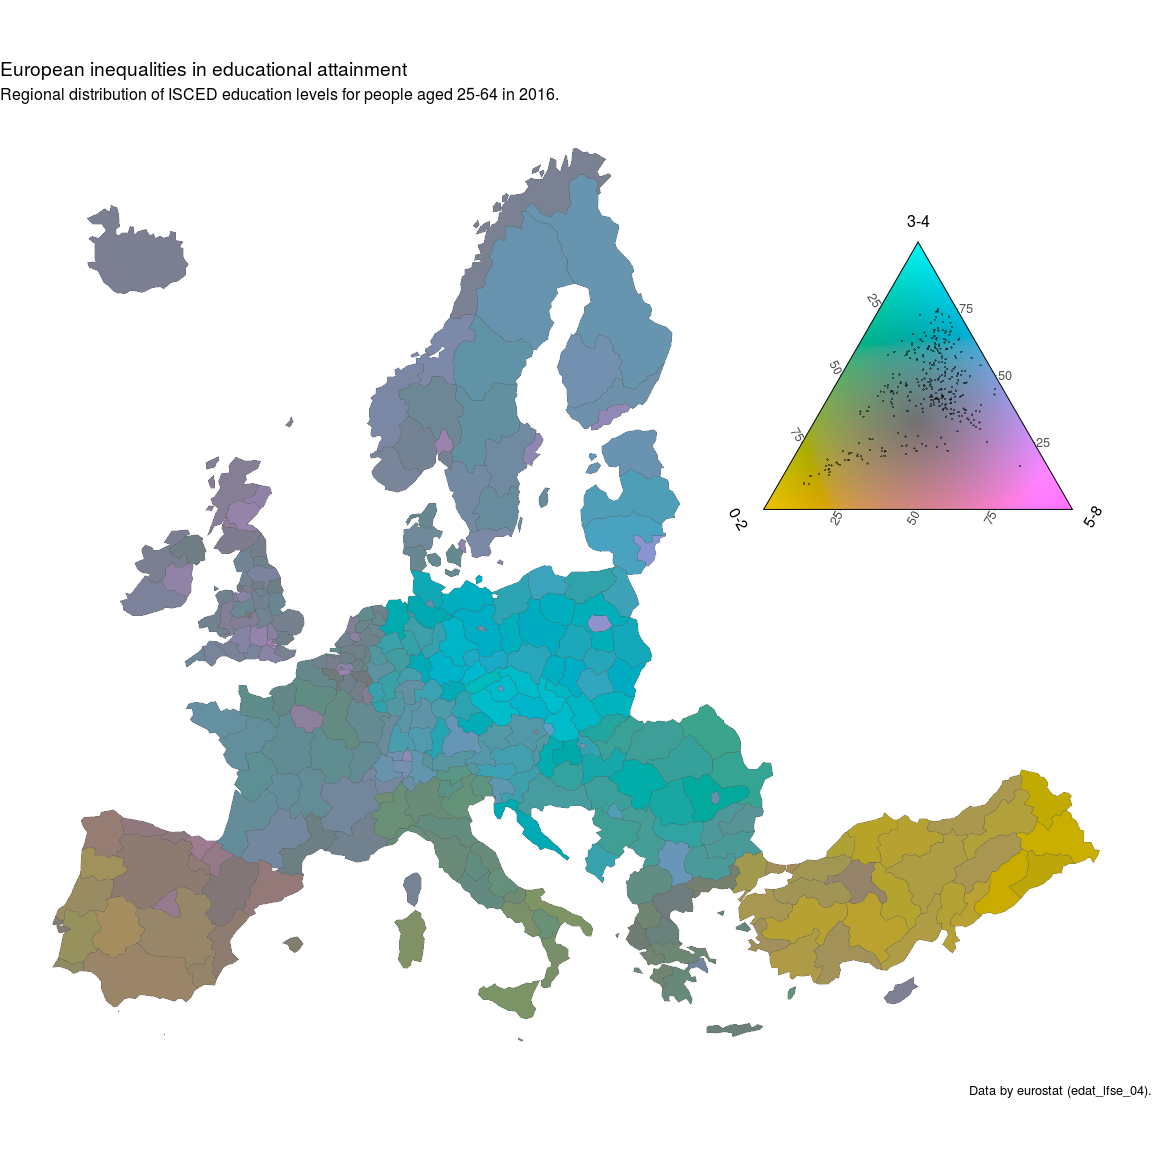
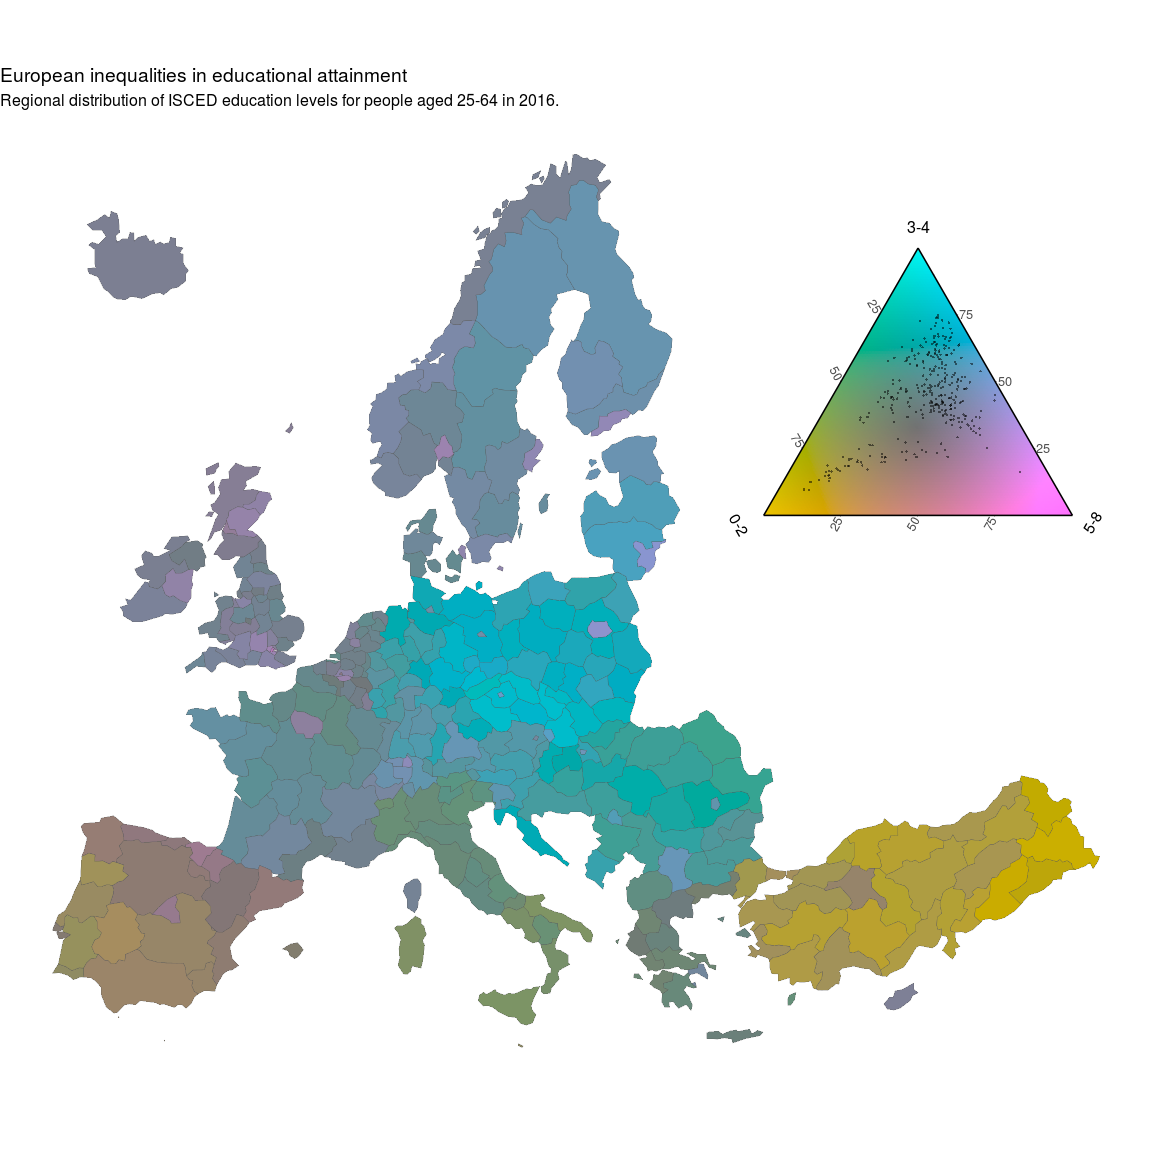
Import theme() Function From ggplot2. Resolves #10, resolves #9

diff --git a/README.md b/README.md
@@ -49,7 +49,7 @@ colors_and_legend <- Tricolore(P, 'V1', 'V2', 'V3')
 head(colors_and_legend$rgb)
 ```
 
-    ## [1] "#BC8C67" "#727272" "#727272" "#CA7FA1" "#A37D7D" "#6E8E72"
+    ## [1] "#A37D7D" "#7A86A1" "#AF9B47" "#6E8E72" "#00AFAE" "#727272"
 
 ``` r
 colors_and_legend$key
@@ -165,8 +165,7 @@ plot_educ +
   theme_void() +
   coord_sf(datum = NA) +
   labs(title = 'European inequalities in educational attainment',
-       subtitle = 'Regional distribution of ISCED education levels for people aged 25-64 in 2016.',
-       caption = 'Data by eurostat (edat_lfse_04).')
+       subtitle = 'Regional distribution of ISCED education levels for people aged 25-64 in 2016.')
 ```
 
 ![](README_files/figure-gfm/unnamed-chunk-9-1.png)<!-- -->
@@ -196,8 +195,7 @@ ggplot(euro_example) +
   theme_void() +
   coord_sf(datum = NA) +
   labs(title = 'European inequalities in educational attainment',
-       subtitle = 'Regional distribution of ISCED education levels for people aged 25-64 in 2016.',
-       caption = 'Data by eurostat (edat_lfse_04).')
+       subtitle = 'Regional distribution of ISCED education levels for people aged 25-64 in 2016.')
 ```
 
 ![](README_files/figure-gfm/unnamed-chunk-10-1.png)<!-- -->
@@ -225,8 +223,7 @@ ggplot(euro_example) +
   theme_void() +
   coord_sf(datum = NA) +
   labs(title = 'European inequalities in educational attainment',
-       subtitle = 'Regional distribution of ISCED education levels for people aged 25-64 in 2016.',
-       caption = 'Data by eurostat (edat_lfse_04).')
+       subtitle = 'Regional distribution of ISCED education levels for people aged 25-64 in 2016.')
 ```
 
 ![](README_files/figure-gfm/unnamed-chunk-11-1.png)<!-- -->
@@ -261,8 +258,7 @@ ggplot(euro_example) +
   theme_void() +
   coord_sf(datum = NA) +
   labs(title = 'European inequalities in labor force composition',
-       subtitle = 'Regional distribution of labor force across the three sectors in 2016.',
-       caption = 'Data by eurostat (lfst_r_lfe2en2).')
+       subtitle = 'Regional distribution of labor force across the three sectors in 2016.')
 ```
 
 ![](README_files/figure-gfm/unnamed-chunk-12-1.png)<!-- -->
@@ -308,8 +304,7 @@ ggplot(euro_example) +
   theme_void() +
   coord_sf(datum = NA) +
   labs(title = 'European inequalities in labor force composition',
-       subtitle = 'Regional distribution of labor force across the three sectors in 2016.',
-       caption = 'Data by eurostat (lfst_r_lfe2en2).')
+       subtitle = 'Regional distribution of labor force across the three sectors in 2016.')
 ```
 
 ![](README_files/figure-gfm/unnamed-chunk-13-1.png)<!-- -->

diff --git a/cran-comments.md b/cran-comments.md
@@ -1,12 +1,13 @@
-This is a critical update establishing compatability with ggplot/ggtern 3.2.0.
+This is a critical update establishing compatability with ggplot/ggtern 3.3.0.
 
-tricolore on CRAN was "archived on 2019-07-03 as check problems were not corrected in time." This update corrects those problems which arose from a change in the way "geom_sf()" works starting with ggplot 3.2.0.
+This update corrects those problems which arose from the way ggplot handles theme elements starting with ggplot 3.3.0.
 
 ## Test environments
 
-* local: Linux Mint 19.1 9.5, R 3.6.1
-* travis-ci: Linux Ubuntu 14.04, R 3.5.0
-* devtools::build_win: Windows
+* local: Linux Mint 19.1, R 3.6.3
+* travis-ci: Linux Ubuntu 16.04, R 3.5.0
+* devtools::check_win()
+* devtools::check_rhub()
 
 ## R CMD check results
 

diff --git a/NEWS.md b/NEWS.md
@@ -1,3 +1,8 @@
+# tricolore 1.2.2
+
+* establish compatibility with ggplot/ggtern 3.3.0
+* remove 'caption' labels from example plots as it causes rendering bug
+
 # tricolore 1.2.1
 
 * establish compatibility with ggplot/ggtern 3.2.0
